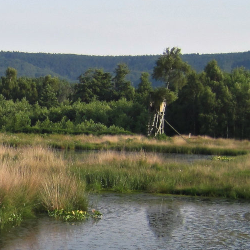
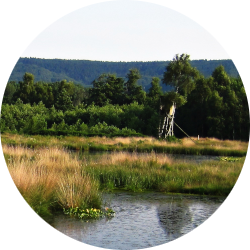
Verbesserter Kontrast von Header-Bild

diff --git a/hillerplatt.css b/hillerplatt.css
@@ -96,7 +96,7 @@ h3 {
 	color: #fff;
 	text-shadow: 0 0 10px rgba(0, 0, 0, .5);
 	border-radius: 0;
-	background-image: url('img/torfmoor-smaller.jpg');
+	background-image: url('img/torfmoor-edited-smaller.jpg');
 	background-size: cover;
 	background-repeat: no-repeat;
 	background-position: 50% 15%;
